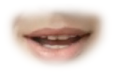
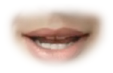
Lara lip sync: even (centred) open/slight mouth shapes, no one-sided talking; clip version 12

diff --git a/public/chat.html b/public/chat.html
@@ -137,7 +137,7 @@ label.ck{display:flex;gap:8px;font-size:13px;align-items:flex-start}label.ck inp
   <textarea id="rc" dir="auto" style="height:60px"></textarea>
   <div style="display:flex;gap:8px"><button class="go" id="rno" type="button" style="flex:1;padding:12px;background:var(--line);color:var(--ink)"></button><button class="go" id="rgo" type="button" style="flex:2;padding:12px" disabled></button></div>
 </div></div>
-<script src="lara-live.js?v=11" defer></script>
+<script src="lara-live.js?v=12" defer></script>
 <script>
 (function () {
   var API = "https://iyubegbevtjcvtuubpaq.supabase.co/functions/v1/api";

diff --git a/public/lara-live.js b/public/lara-live.js
@@ -5,7 +5,7 @@
    Cost guards: max call length (server token expires too), 20 s silence -> "are you still there?", 12 s more -> end, tab hidden -> end. */
 (function () {
   "use strict";
-  var CV = "11";   // clip version: bump when the clips change, so no browser keeps playing old ones (21 Nov 2026)
+  var CV = "12";   // clip version: bump when the clips change, so no browser keeps playing old ones (21 Nov 2026)
   var CLIPS = ["idle", "listen"];   // 21 Nov 2026: talk1/2 = Gemini Pro videos of Lara, idle/listen = same portrait
   var cache = {}, loading = null;
   function preload(base) {
